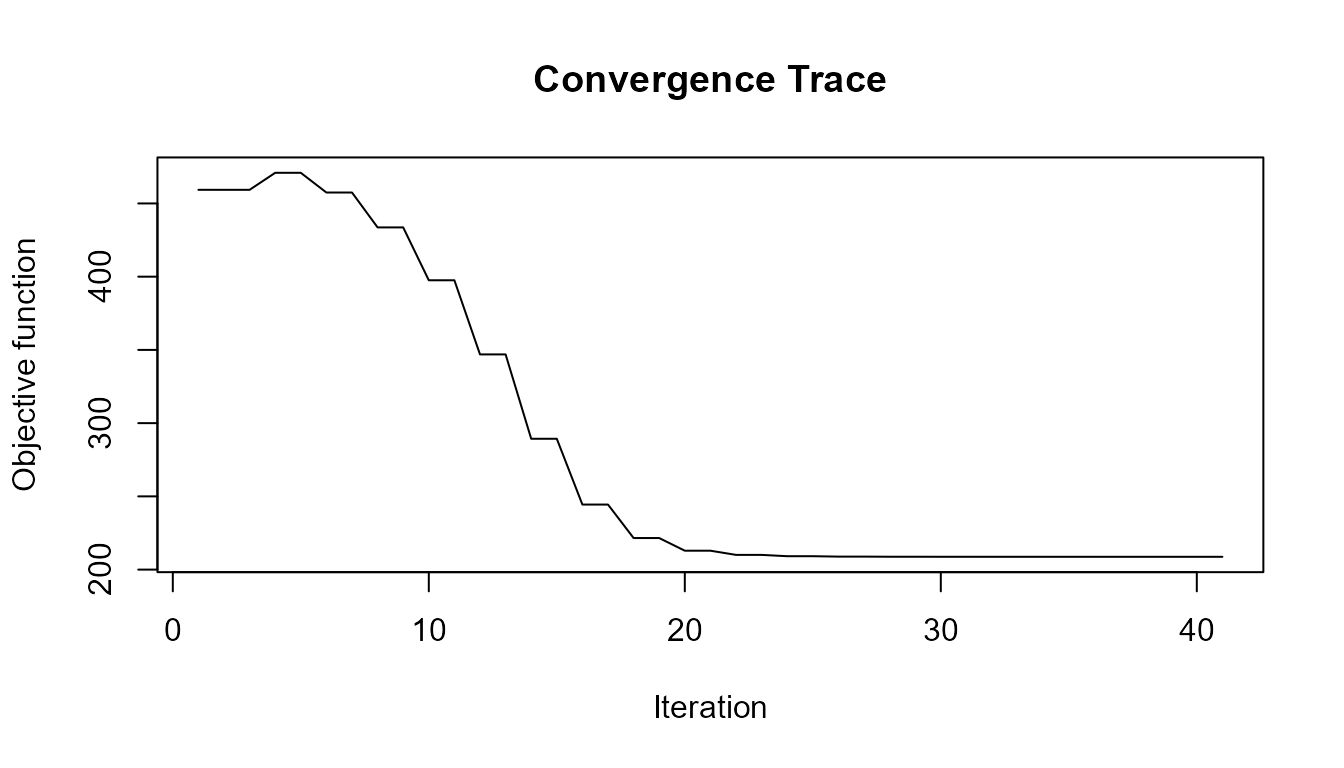
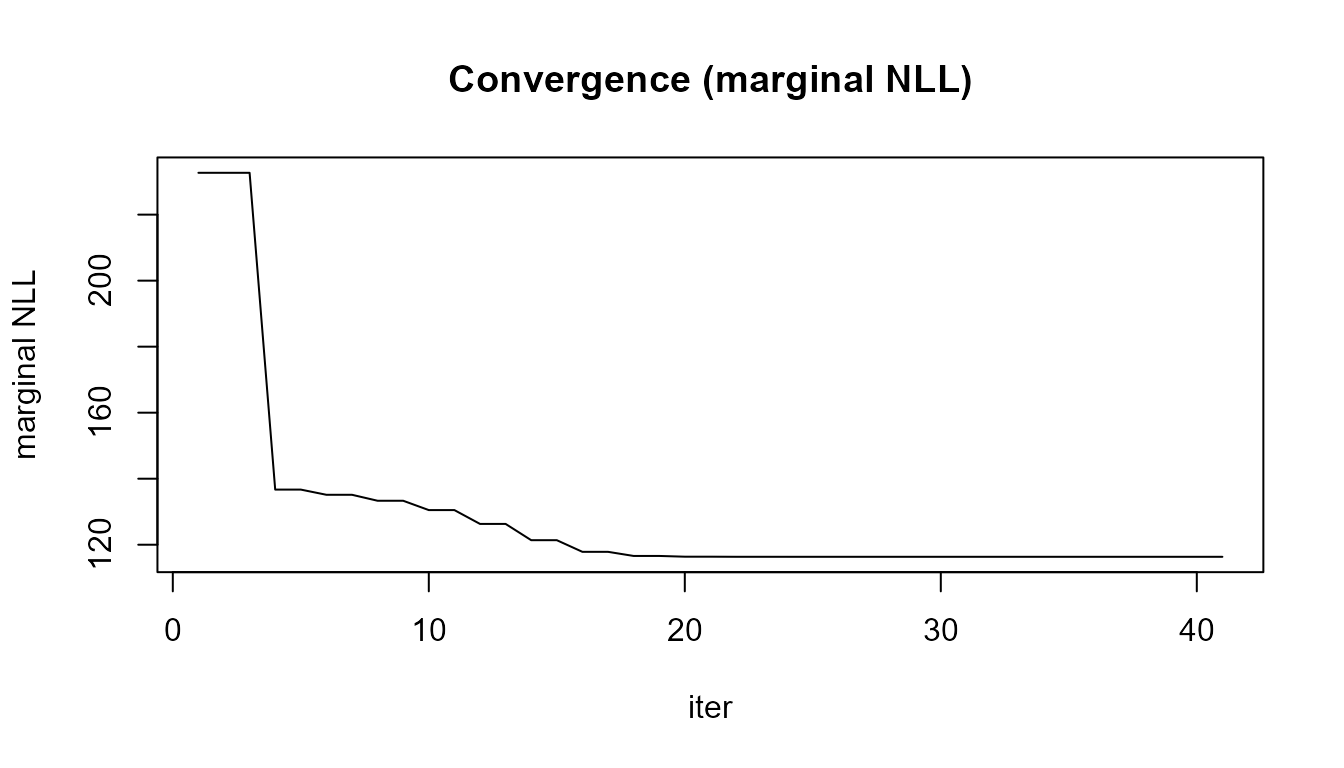
20260627 nmfre: record and plot the marginal NLL (ECM-monotone) instead of the penalized objective - add internal .nmfre.marginal.nll() (Sigma=tau2 XX'+sigma2 I, U integrated out), store $nll.trace per iteration; plot.nmfre() now draws nll.trace (falls back to objfunc.iter for old fits); the fixed-l

diff --git a/docs/articles/nmf-re-with-nmfkc.html b/docs/articles/nmf-re-with-nmfkc.html
@@ -486,10 +486,16 @@ average; negative values indicate slower growth.</p>
 <span><span class="co">#&gt; Iterations: 41</span></span>
 <span><span class="fu"><a href="https://rdrr.io/r/base/cat.html" class="external-link">cat</a></span><span class="op">(</span><span class="st">"Stop reason:"</span>, <span class="va">res</span><span class="op">$</span><span class="va">stop.reason</span>, <span class="st">"\n"</span><span class="op">)</span></span>
 <span><span class="co">#&gt; Stop reason: outer_lambda</span></span></code></pre></div>
+<p><code><a href="https://rdrr.io/r/graphics/plot.default.html" class="external-link">plot()</a></code> shows the <strong>marginal negative
+log-likelihood</strong> <span class="math inline">\(\ell(X,\Theta,\sigma^2,\tau^2)\)</span> (random
+effects integrated out), which the ECM algorithm decreases
+monotonically. Note that the fixed-<span class="math inline">\(\lambda\)</span> penalized objective
+(<code>res$objfunc.iter</code>) is <em>not</em> monotone across outer
+iterations — it jumps each time <span class="math inline">\(\lambda =
+\sigma^2/\tau^2\)</span> is updated — so it is unsuitable for
+illustrating convergence.</p>
 <div class="sourceCode" id="cb13"><pre class="downlit sourceCode r">
-<code class="sourceCode R"><span><span class="fu"><a href="https://rdrr.io/r/graphics/plot.default.html" class="external-link">plot</a></span><span class="op">(</span><span class="va">res</span><span class="op">$</span><span class="va">objfunc.iter</span>, type <span class="op">=</span> <span class="st">"l"</span>,</span>
-<span>     xlab <span class="op">=</span> <span class="st">"Iteration"</span>, ylab <span class="op">=</span> <span class="st">"Objective function"</span>,</span>
-<span>     main <span class="op">=</span> <span class="st">"Convergence Trace"</span><span class="op">)</span></span></code></pre></div>
+<code class="sourceCode R"><span><span class="fu"><a href="https://rdrr.io/r/graphics/plot.default.html" class="external-link">plot</a></span><span class="op">(</span><span class="va">res</span>, main <span class="op">=</span> <span class="st">"Convergence (marginal NLL)"</span><span class="op">)</span></span></code></pre></div>
 <p><img src="nmf-re-with-nmfkc_files/figure-html/plot-convergence-1.png" width="672"></p>
 </div>
 <div class="section level3">

diff --git a/NEWS.md b/NEWS.md
@@ -12,6 +12,14 @@
   The basis \eqn{X} is always non-negative, so \eqn{X \rightarrow Y} edges are
   unaffected.
 
+### **`nmfre`: marginal-NLL convergence trace**
+- `nmfre()` now records `nll.trace`, the marginal negative log-likelihood
+  \eqn{\ell(X,\Theta,\sigma^2,\tau^2)} (random effects integrated out), which the
+  ECM algorithm decreases monotonically. `plot.nmfre()` displays this instead of
+  the fixed-\eqn{\lambda} penalized objective (`objfunc.iter`), which is *not*
+  monotone across outer iterations because it jumps when
+  \eqn{\lambda=\sigma^2/\tau^2} is updated.
+
 ### **`nmfre`: optimization and inference fully separated**
 - `nmfre()` now performs **optimization only**, mirroring the
   `nmfkc()` / `nmfkc.inference()` split. The `wild.bootstrap` argument and all